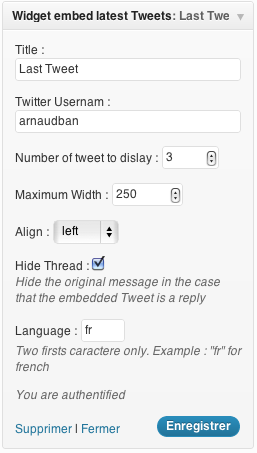
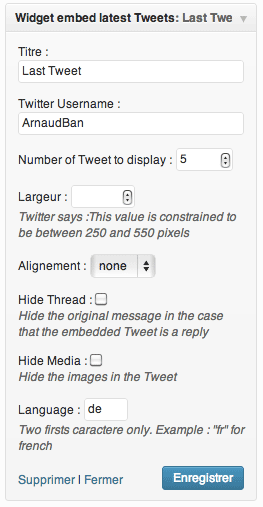
Update truly to API V1.1
Authentication is required !

diff --git a/js/welt-scripts.js b/js/welt-scripts.js
@@ -23,7 +23,6 @@ jQuery(document).ready( function(){
 			data,
 			function(response) {
 				current_widget.append(response);
-				//jQuery.getScript('//platform.twitter.com/widgets.js');
 			}
 		);
 

diff --git a/widget-embed-latest-tweets.php b/widget-embed-latest-tweets.php
@@ -2,8 +2,8 @@
 /*
  * Plugin Name: Widget embed latest Tweets
  * Plugin URI: http://www.arnaudbanvillet.com/blog/portfolio/widget-embed-latest-tweets/
- * Description: A Widget to show your latest Tweets. Use the oEmbed methode and some cache.
- * Version: 0.3.7
+ * Description: A Widget to show your latest Tweets. Use the oEmbed methode and some cache. Visit the option page "Plugins->Widget Embed Last Plugin" to authentify yourself
+ * Version: 0.4
  * Author: Arnaud Banvillet
  * Author URI: http://www.arnaudbanvillet.com
  * License: GPL2
@@ -32,7 +32,6 @@ class Widget_Embed_Latest_Tweets extends WP_Widget {
 			'count'				=> 3,
 			'align'				=> 'none',
 			'hide_thread'	=> true,
-			'omit_script'	=> true,
 			'lang'				=> 'en',
 			'include_rts'	=> true,
 			'hide_media'	=> true
@@ -186,12 +185,7 @@ class Widget_Embed_Latest_Tweets extends WP_Widget {
 			<br />
 			<span class="description"><?php _e('Two firsts caractere only. Example : "fr" for french') ?></span>
 		</p>
-		<?php if( get_option('welt_twitter_authentification') ) { ?>
-			<p class="description">
-				<?php _e('You are authentified', 'ab-welt-locales'); ?>
-			</p>
 		<?php
-		}
 	}
 
 }
@@ -208,72 +202,60 @@ add_action('widgets_init', create_function('', 'register_widget( "Widget_Embed_L
 	*/
 function welt_set_tweet_transient( $widget_id, $options, $update = false){
 
-	extract($options);
+	$return_value = false;
 
 	$twitter_oauth_var = get_option('welt_twitter_oauth_var');
 
-
 	//Check if wee use the authentification methode. We need to have all the key and secret.
-	$oauth_methode = is_array( $twitter_oauth_var ) && count($twitter_oauth_var) == 4;
-	update_option('welt_twitter_authentification', $oauth_methode);
+	if( is_array( $twitter_oauth_var ) && count($twitter_oauth_var) == 4 ){
 
-	//The authentification methode
-	if( $oauth_methode ){
 		$connection = new TwitterOAuth($twitter_oauth_var['consumer_key'], $twitter_oauth_var['consumer_secret'], $twitter_oauth_var['token_key'],$twitter_oauth_var['token_secret']);
 		$last_tweet = $connection->get('https://api.twitter.com/1.1/statuses/user_timeline.json', $options );
 
-	} else {
-		// We use the GET statuses/user_timeline to get the latest tweet
-		$last_tweet = @file_get_contents( 'http://api.twitter.com/1/statuses/user_timeline.json?screen_name=' . $screen_name . '&count=' . $count . '&include_rts=1' );
-		$last_tweet = json_decode($last_tweet);
-	}
+		// if there is an error
+		if( isset( $last_tweet->errors ) ){
 
-	if( $last_tweet == false || empty( $last_tweet )){
-		delete_transient( 'last_tweet_' . $widget_id );
-		return;
-	}
+			delete_transient( 'last_tweet_' . $widget_id );
+			$return_value = $last_tweet->errors[0]->message;
 
-	set_transient('last_tweet_' . $widget_id , $last_tweet, 60 * 5);
+		// If there is nothing
+		} elseif( $last_tweet == false || empty( $last_tweet )){
 
-	foreach ($last_tweet as $tweet) {
+			delete_transient( 'last_tweet_' . $widget_id );
+			$return_value = false;
 
-		$id = $tweet->id_str;
+		// It should be ok
+		} else {
+
+			$return_value = $last_tweet;
+
+			set_transient('last_tweet_' . $widget_id , $last_tweet, 60 * 5);
+
+			foreach ($last_tweet as $tweet) {
+
+				$id = $tweet->id_str;
 
 
-		if( $update || ! get_transient('last_tweet_html_' . $id)){
+				if( $update || ! get_transient('last_tweet_html_' . $id)){
 
 
-			if( $oauth_methode ){
+					$options['id'] = $id;
 
-				$options['id'] = $id;
+					if( empty( $maxwidth) ){
+						unset( $options['maxwidth']);
+					}
 
-				if( empty( $maxwidth) ){
-					unset( $options['maxwidth']);
+					$last_tweet_html = $connection->get('https://api.twitter.com/1.1/statuses/oembed.json', $options);
+
+
+					set_transient('last_tweet_html_' . $id, $last_tweet_html );
+
 				}
-
-				$last_tweet_html = $connection->get('https://api.twitter.com/1.1/statuses/oembed.json', $options);
-
-
-			} else {
-
-				// We use the GET statuses/oembed API to get the html to display
-				// https://dev.twitter.com/docs/api/1/get/statuses/oembed
-				$option_string = 'id=' . $id . '&align=' . $align . '&hide_thread='. $hide_thread .'&lang=' . $lang . '&hide_media=' . $hide_media;
-
-				if( is_numeric( $maxwidth) ){
-					$option_string .= '&maxwidth=' . $maxwidth;
-				}
-
-				$last_tweet_html = @file_get_contents('https://api.twitter.com/1/statuses/oembed.json?' . $option_string);
-				$last_tweet_html = json_decode($last_tweet_html);
-
 			}
-
-			set_transient('last_tweet_html_' . $id, $last_tweet_html, 60 * 60 * 24);
-
 		}
-
 	}
+
+	return $return_value;
 }
 
 
@@ -299,13 +281,15 @@ function welt_display_tweets( ){
 		$instance = $all_instance_widget[$widget_real_id];
 
 		// Set the transient for this widget
-		welt_set_tweet_transient( $widget_id, $instance, false );
-
-		$last_tweet = get_transient('last_tweet_' .$widget_id);
+		$last_tweet = welt_set_tweet_transient( $widget_id, $instance, false );
 
 	}
 
-	if( $last_tweet != false ){
+	if( is_string( $last_tweet ) ){ // It is a error
+
+		echo $last_tweet;
+
+	} elseif ( $last_tweet != false ){
 
 		foreach ($last_tweet as $tweet) {
 
@@ -314,6 +298,7 @@ function welt_display_tweets( ){
 			$last_tweet_html = get_transient('last_tweet_html_' . $tweet_id);
 
 			$tweet_html .= $last_tweet_html->html;
+
 		}
 	} else {
 		$tweet_html = __('Error: Twitter did not respond. Please wait a few minutes and refresh this page.', 'ab-welt-locales');
@@ -335,8 +320,6 @@ function welt_enqueue_scripts(){
 	// welt
 	wp_enqueue_script('welt_script', plugins_url('/js/welt-scripts.js', __FILE__) , array( 'jquery' ), '20130129', true );
 	wp_localize_script( 'welt_script', 'ajaxurl', admin_url('admin-ajax.php') );
-	// Twitter
-	wp_enqueue_script('welt_twitter', '//platform.twitter.com/widgets.js', array( 'welt_script' ), '', true );
 
 }
 add_action('wp_enqueue_scripts', 'welt_enqueue_scripts');

diff --git a/README.md b/README.md
@@ -2,13 +2,17 @@
 
 A Widget to show your latest tweets. Use the oEmbed methode and some cache. It is simple, elegant and it works.
 
-You can authentified your widget and get rid of the Twitter's API limitation from anonymous request. See the option page of the plugin : plugins -> Widget Embed Latest Tweets
+This plugin uses the Twitter API version 1.1. You have to authentify yourself !
+Visit the option page "Plugins->Widget Embed Last Plugin" to do so.
 
 Options :
 
-* number of tweet to display
+* Number of Tweet to display
 * Maximum width
 * Alignment (left, right, center, none)
+* Choose your language
+* Hide the original message in the case that the embedded Tweet is a reply
+* Hide images in the Tweet
 
 Note that with the oEmbed method you can not customise easily the display of your tweet.
 However it assure you that all the twitter's recomandation to display your tweet are respected, they are providing the code !
